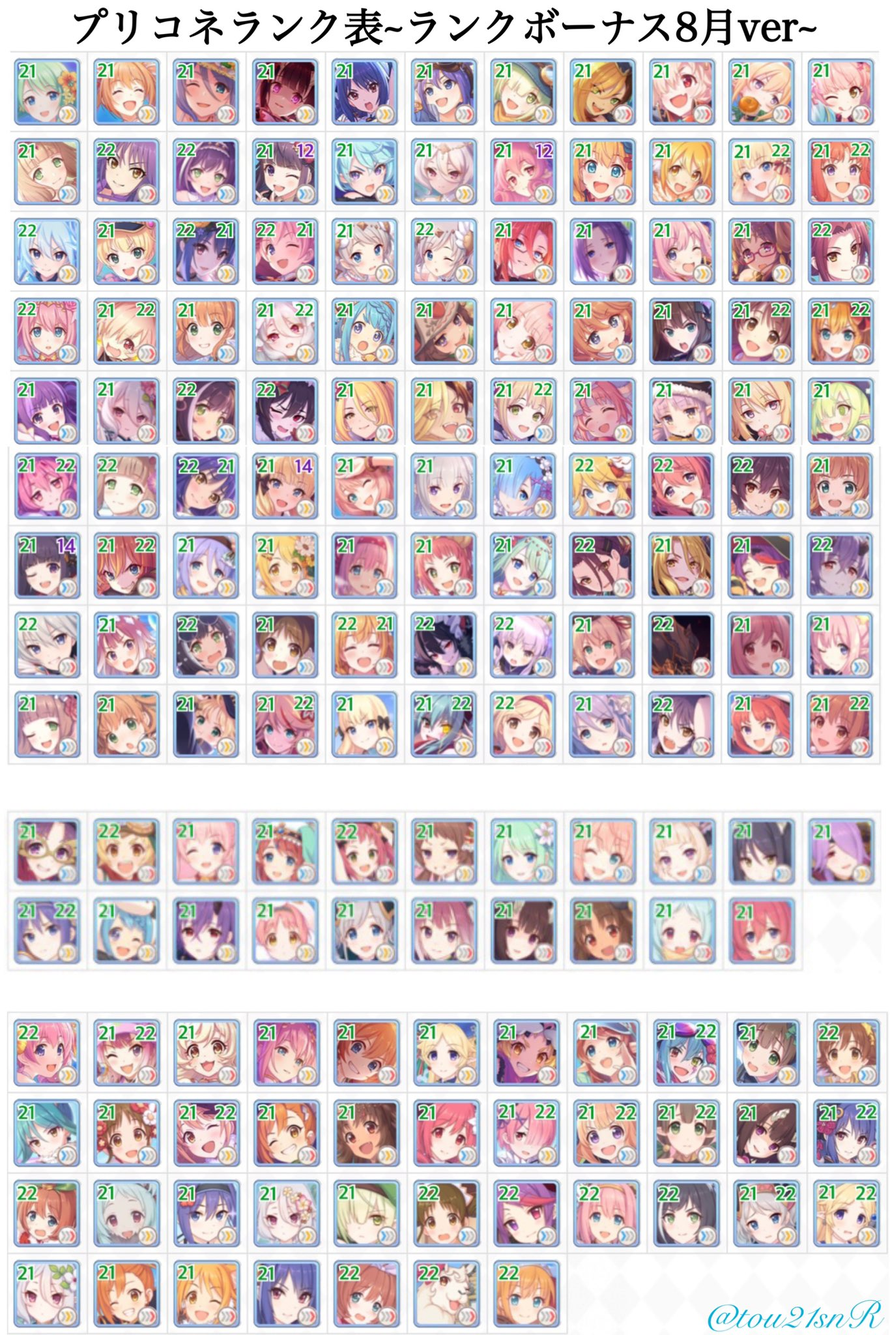
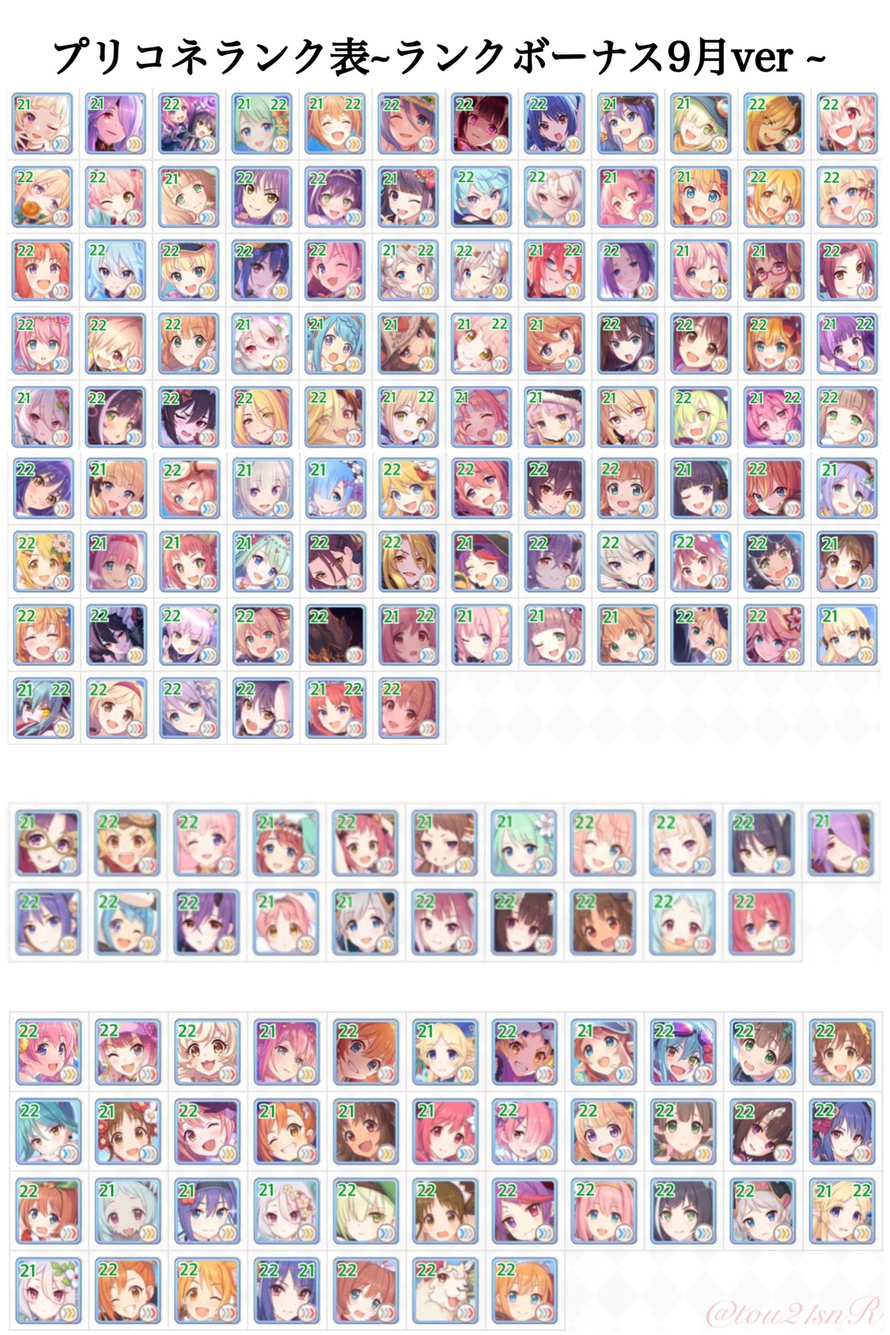
修复部分bug并更新rank表

diff --git a/rin/modules/cbt/cbt.py b/rin/modules/cbt/cbt.py
@@ -1,6 +1,6 @@
 import json
 import typing
-
+import rin
 import mysql.connector
 
 
@@ -10,8 +10,7 @@ class Recorder:
 
 
     def __init__(self) -> None:
-        with open('config.json') as f:
-            self.configuration = json.load(f)
+        self.cfg = rin.config.cbt
         self.establishDatabaseConnection()
         self.initializeDatabase()
 
@@ -19,15 +18,15 @@ class Recorder:
     def establishDatabaseConnection(self) -> bool:
         try:
             self.databaseConnection = mysql.connector.connect(
-                database = self.configuration['databaseName'],
-                host = self.configuration['databaseHost'],
-                user = self.configuration['databaseUsername'],
-                password = self.configuration['databasePassword'],
-                port = self.configuration['databasePort'],
+                database = self.cfg.dbname,
+                host = self.cfg.host,
+                user = self.cfg.name,
+                password = self.cfg.pw,
+                port = self.cfg.port,
                 buffered = True
             )
-        except:
-            return False
+        except Exception as e:
+            print(e)
 
 
     def initializeDatabase(self) -> bool:

diff --git a/rin/modules/cbt/main.py b/rin/modules/cbt/main.py
@@ -1,4 +1,4 @@
-from .cbt import Recorder
+
 from nonebot import on_command
 from .argparse import ArgParser
 from .exception import *
@@ -10,7 +10,7 @@ sv = Service('cbt')
 SORRY = 'ごめんなさい！嘤嘤嘤(〒︿〒)'
 
 if __name__ == '__main__':
-    recorder = Recorder()
+    recorder=Recorder()
     bosses = {
         1: [1000, 2000, 3000, 4000, 5000],
         2: [1000, 2000, 3000, 4000, 5000],
@@ -29,6 +29,7 @@ if __name__ == '__main__':
     recorder.cancelBattle('kmr') #我不进了
     recorder.reportDamage(3, 'kmr', True, 23333) #报刀，参数为：boss, 玩家, 是否为完整刀, 伤害
 '''
+
 _registry:Dict[str, Tuple[Callable, ArgParser]] = {}
 
 @sv.on_message('group')

diff --git a/rin/modules/cbt/cmd.py b/rin/modules/cbt/cmd.py
@@ -12,7 +12,7 @@ from nonebot import NoneBot
 from nonebot import MessageSegment as ms
 from nonebot.typing import Context_T
 from rin import util, priv
-
+from .connector import recorder
 from .main import sv, cb_cmd
 from .argparse import ArgParser, ArgHolder, ParseResult
 from .argparse.argtype import *
@@ -25,5 +25,5 @@ USAGE_ADD_MEMBER = '!入会 昵称 (@qq)'
 async def add_member(bot:NoneBot, ctx:Context_T, args:ParseResult):
     uid = args['@'] or args.at or ctx['user_id']
     name = args['']
-    Recorder.addPlayer({name}, {uid}, 'rmk', 'admin')
+    recorder.addPlayer(uid, 3, "admin")
     await bot.send(ctx, f"成员{ms.at(uid)}添加成功！欢迎{name}加入拂晓茶会")

diff --git a/rin/modules/groupmaster/chat.py b/rin/modules/groupmaster/chat.py
@@ -17,13 +17,13 @@ sv = Service('chat', visible=False)
 async def say_sorry(bot, ev):
     await bot.send(ev, 'ごめんなさい！嘤嘤嘤(〒︿〒)')
 
-
-@sv.on_fullmatch(('老婆', 'waifu', 'laopo'), only_to_me=True)
+'''@sv.on_fullmatch(('老婆', 'waifu', 'laopo'), only_to_me=True)
 async def chat_waifu(bot, ev):
     if not priv.check_priv(ev, priv.SUPERUSER):
         await bot.send(ev, R.img(f"laopo{random.randint(1, 2)}.jpg").cqcode)
     else:
-        await bot.send(ev, 'mua~')
+        await bot.send(ev, 'mua~')'''
+
 
 
 @sv.on_fullmatch('老公', only_to_me=True)

diff --git a/rin/modules/groupmaster/randompic.py b/rin/modules/groupmaster/randompic.py
@@ -57,14 +57,11 @@ async def az(bot, ctx):
     if random.random() < 0.10:
         await bot.send(ctx, R.img('啊这.jpg').cqcode)
 
-@sv.on_keyword(('我laopo', 'wlp', '我老婆'))
+@sv.on_keyword(('laopo', 'wlp', '老婆'))
 async def hanlaopo(bot, ctx):
     if random.random() < 0.10:
         await bot.send(ctx, R.img(f"laopo{random.randint(1, 2)}.jpg").cqcode)
 
-@sv.on_keyword(('se', '涩', '色图'))
-async def buzhunkansetu(bot, ctx):
-    if random.random() < 0.10:
-        await bot.send(ctx, R.img(f"涩图审核{random.randint(1, 2)}.jpg").cqcode)
+
 
 

diff --git a/rin/modules/cbt/connector.py b/rin/modules/cbt/connector.py
@@ -1,0 +1,5 @@
+from .cbt import Recorder
+try:
+    recorder = Recorder()
+except Exception as e:
+    print(e)
